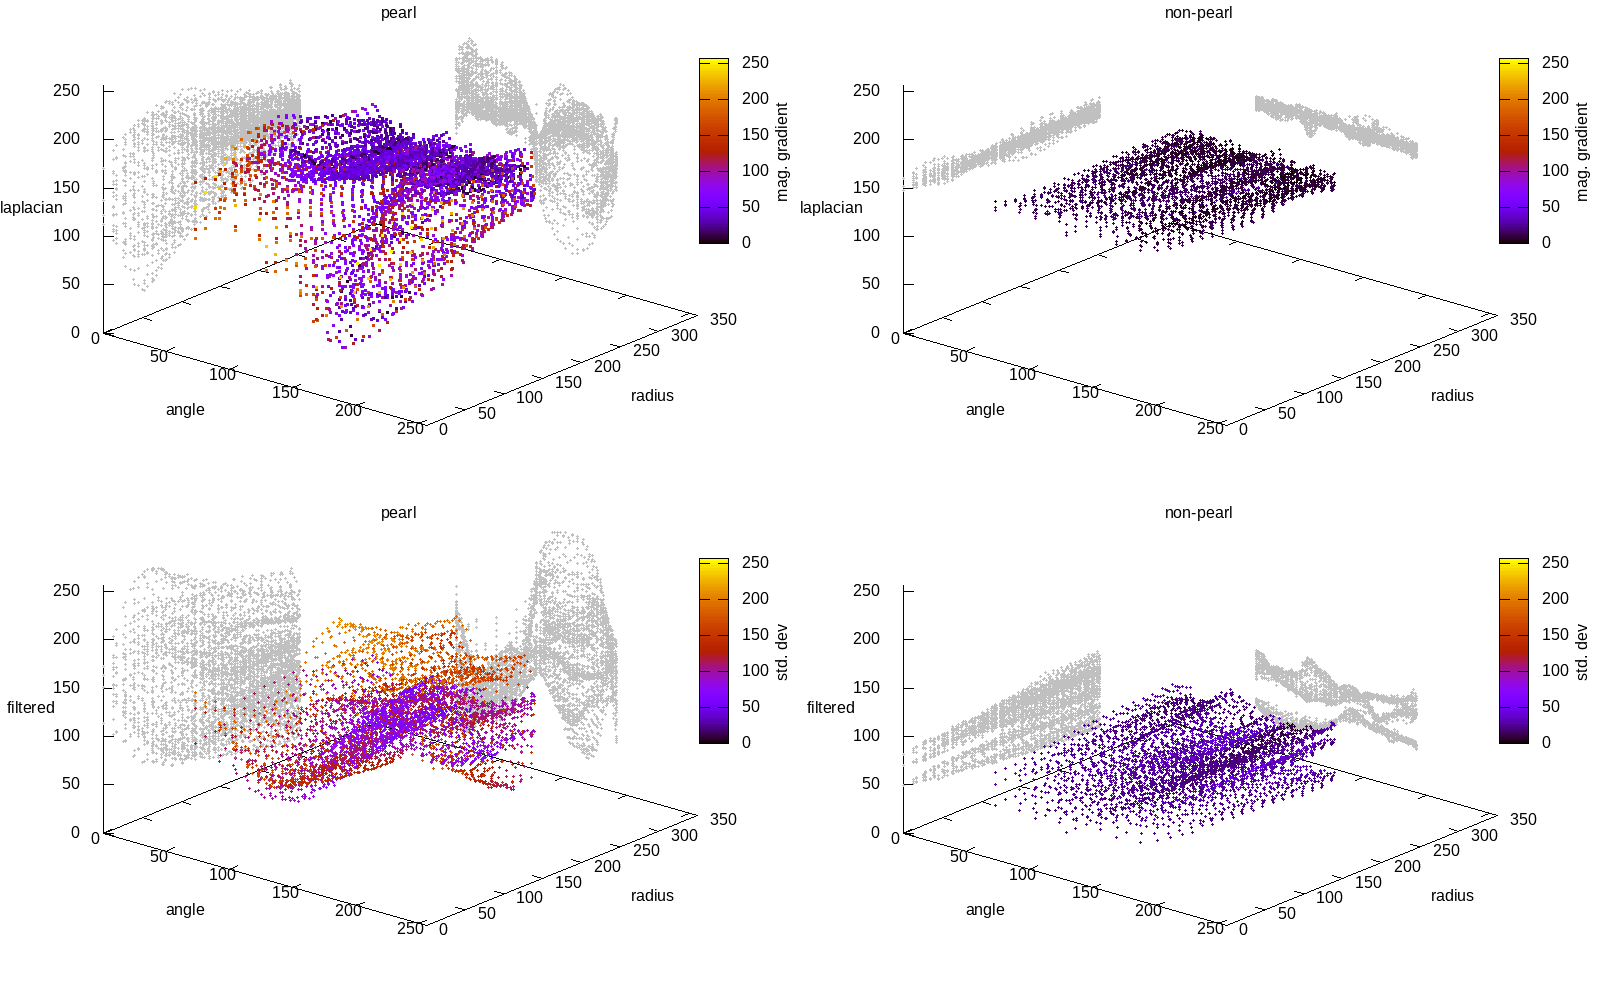
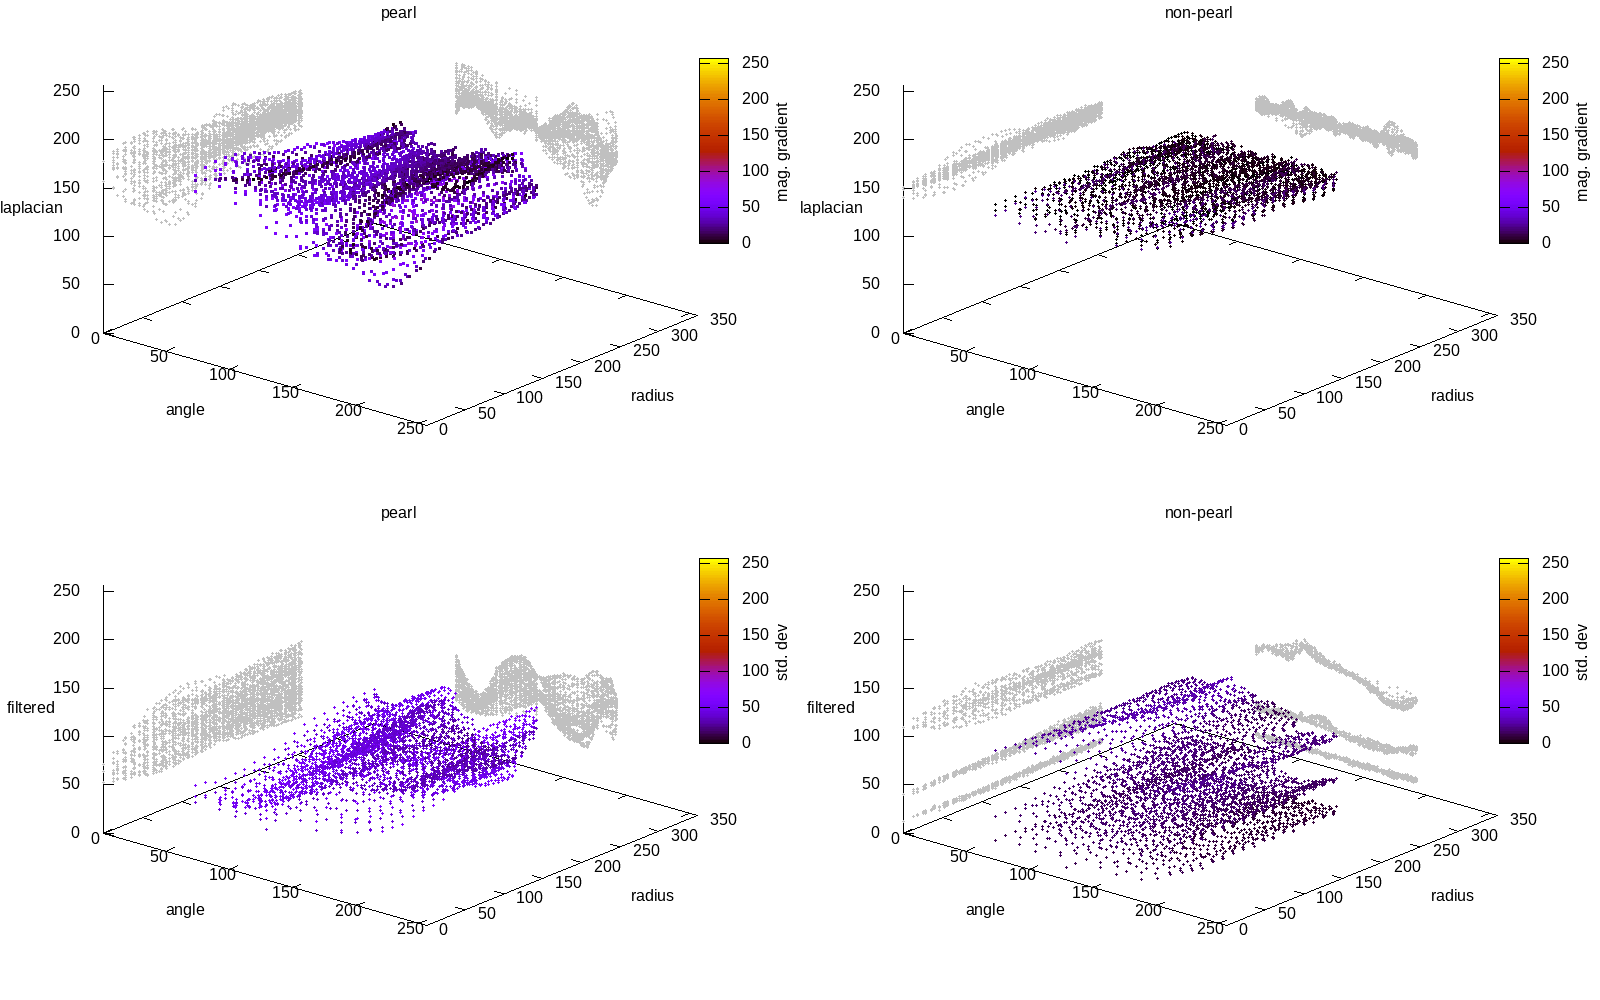
incremental

diff --git a/src/imageProcess.py b/src/imageProcess.py
@@ -164,10 +164,11 @@ def getnonpearls(outpng,fname):
     np.savetxt(fname,np.asarray(refPt),fmt='%i')
     return refPt
 
+bandwidth = 0.4
+nangles = 16
 
 def main():
-    global refPt,i,ddir
-    nangles = 16
+    global refPt,i,ddir,bandwidth,nangles
     angles = np.linspace(-np.pi,np.pi,nangles,endpoint=False)
 
     filename = "%s/frames_1.mat"%(ddir)
@@ -181,6 +182,12 @@ def main():
         grad[:,:,t] = derivTH(img,angles[t],center=0,bwd=.0125)
         GRAD[:,:,t] = np.fft.fft2(grad[:,:,t])
 
+    #tempout = uint8norm(grad[:,:,0]).astype(np.uint8)
+    COS2 = cos2(img,0,bandwidth)
+    SIN2 = -1*sin2(img,0,bandwidth)
+
+    
+
     for i in range(0,92,1):
         filename = "%s/frames_%i.mat"%(ddir,i)
         outname = "%s/out0_%i.dat"%(ddir,i)
@@ -193,8 +200,8 @@ def main():
 
         ## cos2 and sin2 blurs
         IMG = np.fft.fft2(img.astype(float))
-        OUT1 = IMG * cos2(img,0,.2)
-        OUT2 = IMG * -1.*sin2(img,0,.2)
+        OUT1 = IMG * COS2
+        OUT2 = IMG * SIN2
         out1 = uint8norm(np.fft.ifft2( OUT1 ).real)
         out2 = np.fft.ifft2( OUT2 ).real
         out2 = uint8norm(out2)
@@ -282,4 +289,6 @@ def main():
 
 if __name__ == "__main__":
     ddir = "./DataSet2"
+    bandwidth =0.4
+    nangles = 16
     main()
